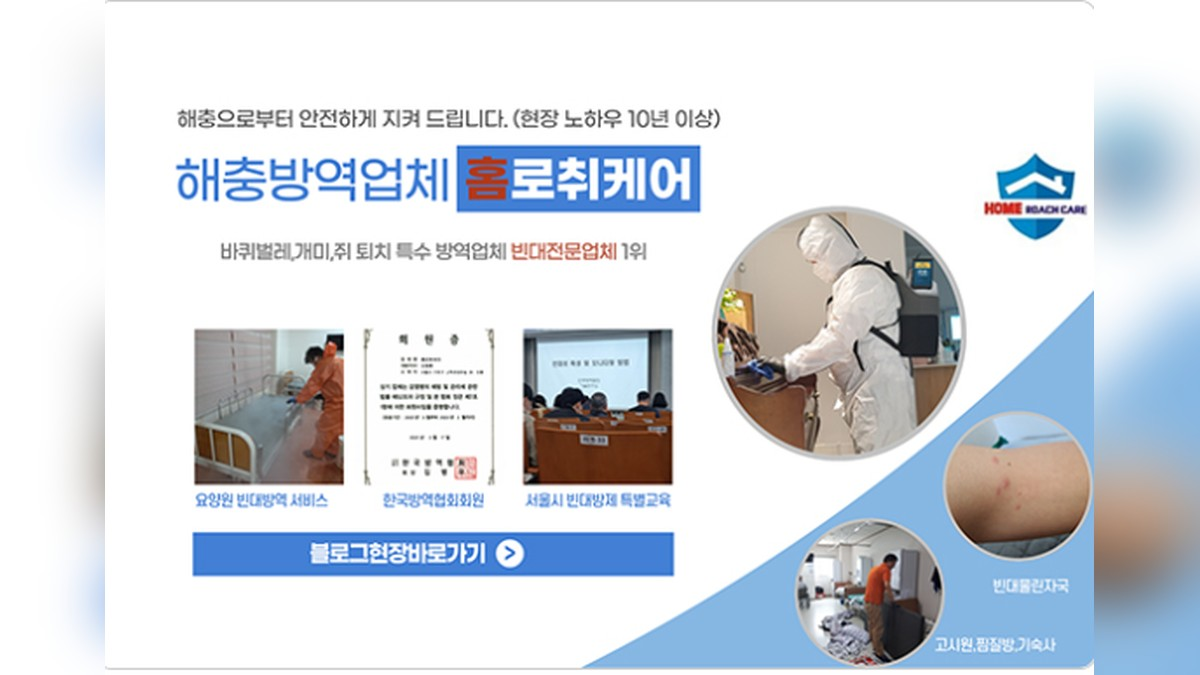
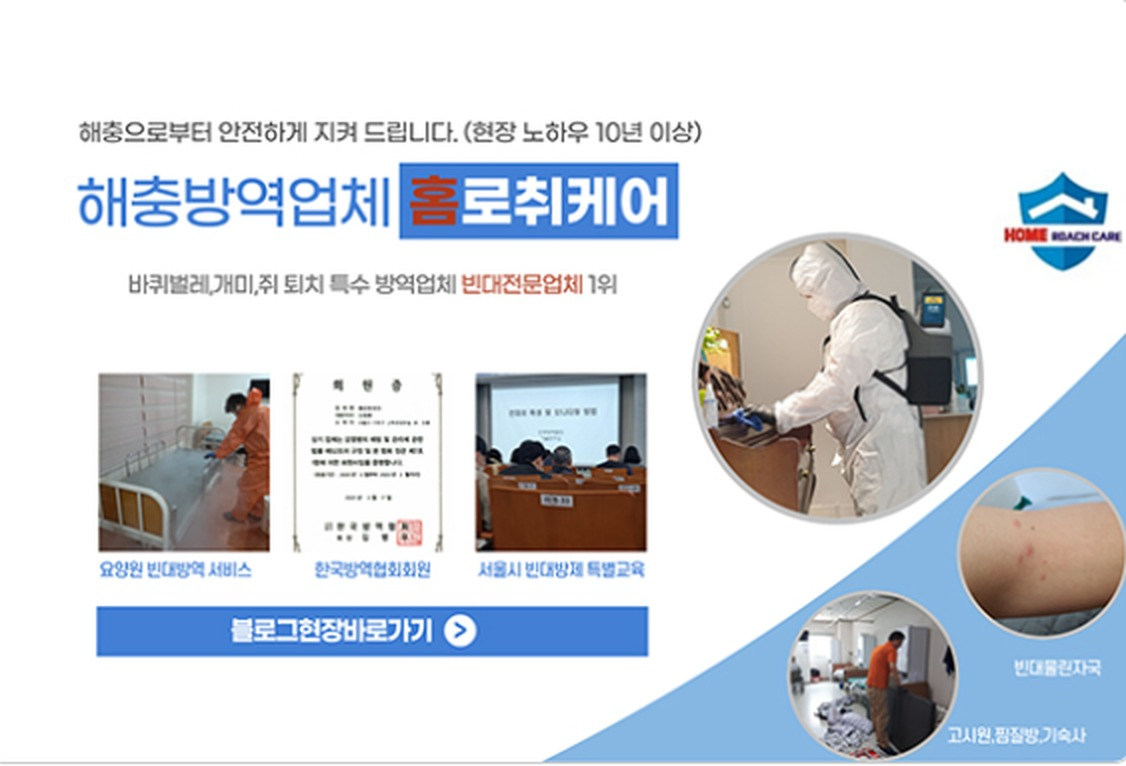
Redesign service cards: clean media frame, check list, compact blog button
Claude-Session: https://claude.ai/code/session_01UkgayosAEQ1Dmg1dq3UhVo

diff --git a/index.html b/index.html
@@ -157,12 +157,23 @@ header{position:sticky;top:0;background:var(--bg);z-index:10;border-bottom:1px s
 .sl-dots button[aria-current=true]{background:#fff;width:26px;border-radius:6px}
 .sl-ctl{position:absolute;right:12px;bottom:6px;z-index:3;background:rgba(0,0,0,.35);color:#fff;border-radius:4px;padding:2px 8px;font-size:.78rem}
 @media(prefers-reduced-motion:reduce){.slide{transition:none}}
-.card.svc{padding:0;overflow:hidden}.card.svc>:not(.svc-img):not(.svc-link){margin-inline:24px}.card.svc ul{margin-bottom:24px;padding-left:42px}.card.svc .tag{margin-top:16px;align-self:flex-start}.svc-img{display:block;width:100%;aspect-ratio:16/9;object-fit:cover}
-.svc-link{position:relative;display:block;cursor:pointer}
-.svc-link:hover .svc-img{filter:brightness(.92)}
-.svc-badge{display:flex;align-items:center;justify-content:center;gap:8px;background:#03c75a;color:#fff;font-size:.95rem;font-weight:700;padding:10px 14px}
-.svc-badge b{background:#fff;color:#03c75a;border-radius:3px;width:20px;height:20px;display:inline-grid;place-items:center;font-size:.78rem}
-.svc-link:hover .svc-badge{background:#02a64b}
+.card.svc{padding:0;overflow:hidden;display:flex;flex-direction:column;background:var(--bg);border:1px solid var(--line);border-radius:16px;transition:box-shadow .2s,transform .2s}
+.card.svc:hover{box-shadow:0 10px 28px rgba(18,64,143,.12);transform:translateY(-2px)}
+@media(prefers-reduced-motion:reduce){.card.svc{transition:none}.card.svc:hover{transform:none}}
+.svc-media{display:block;position:relative;flex:none;box-sizing:border-box;background:#eef3f9;aspect-ratio:16/10;width:100%;overflow:hidden}
+.svc-img{position:absolute;inset:16px;width:calc(100% - 32px);height:calc(100% - 32px);object-fit:contain;border-radius:8px}
+.svc-body{padding:20px 22px 22px;display:flex;flex-direction:column;gap:14px;flex:1}
+.svc-head{display:flex;align-items:center;justify-content:space-between;gap:12px}
+.svc-head h3{margin:0;font-size:1.25rem}
+.svc-list{list-style:none;padding:0;margin:0;display:grid;gap:8px;color:var(--muted);font-size:.95rem}
+.svc-list li{position:relative;padding-left:22px}
+.svc-list li::before{content:"";position:absolute;left:2px;top:.5em;width:10px;height:6px;border-left:2px solid var(--brand);border-bottom:2px solid var(--brand);transform:rotate(-45deg)}
+.svc-blog{margin-top:auto;align-self:flex-start;display:inline-flex;align-items:center;gap:8px;padding:8px 16px 8px 8px;border:1.5px solid #03c75a;border-radius:999px;color:#03a24a;font-weight:700;font-size:.9rem}
+.svc-blog b{background:#03c75a;color:#fff;border-radius:50%;width:24px;height:24px;display:grid;place-items:center;font-size:.8rem}
+.svc-blog:hover{background:#03c75a;color:#fff}
+.svc-blog:hover b{background:#fff;color:#03c75a}
+@media(prefers-color-scheme:dark){:root:not([data-theme=light]) .svc-blog{color:#4ee08b}:root:not([data-theme=light]) .svc-blog:hover{color:#fff}}
+:root[data-theme=dark] .svc-blog{color:#4ee08b}:root[data-theme=dark] .svc-blog:hover{color:#fff}
 .logo-img{display:block;height:52px;width:auto;background:#fff;border-radius:4px}
 @media(max-width:480px){.logo-img{height:44px}}
 .soon{padding:40px 16px;text-align:center;color:var(--muted);border:1px dashed var(--line);border-radius:12px}
@@ -263,7 +274,7 @@ footer{border-top:1px solid var(--line);padding:32px 0;color:var(--muted);font-s
     '<div class="tiles">'+tiles+'</div></div></div>'+
 
   '<section id="services"><div class="wrap"><h2>서비스</h2><p class="sub">필요한 분야만 골라 맡기세요.</p><div class="grid">'+
-    list(S.services,function(x){var bl=x.blog&&/^https?:\/\//.test(x.blog)?x.blog:"";var im=x.image?'<img class="svc-img" loading="lazy" src="'+e(x.image)+'" alt="'+e(x.name)+'">':'<div class="ico">'+e(x.icon)+'</div>';return '<div class="card svc">'+(bl?'<a class="svc-link" href="'+e(bl)+'" target="_blank" rel="noopener noreferrer" aria-label="'+e(x.name)+' 네이버 블로그 새 창으로 열기">'+im+'<span class="svc-badge"><b>N</b> 네이버 블로그 바로가기 (클릭하면 새 창으로 열립니다) ↗</span></a>':im)+'<span class="tag">'+e(x.tag)+'</span><h3>'+e(x.name)+'</h3><ul>'+list(x.items,function(i){return '<li>'+e(i)+'</li>'})+'</ul>'+'</div>'})+
+    list(S.services,function(x){var bl=x.blog&&/^https?:\/\//.test(x.blog)?x.blog:"";var im=x.image?'<img class="svc-img" loading="lazy" src="'+e(x.image)+'" alt="'+e(x.name)+'">':'<div class="ico">'+e(x.icon)+'</div>';return '<article class="card svc">'+(bl?'<a class="svc-media" href="'+e(bl)+'" target="_blank" rel="noopener noreferrer" aria-label="'+e(x.name)+' 네이버 블로그 새 창으로 열기">'+im+'</a>':'<div class="svc-media">'+im+'</div>')+'<div class="svc-body"><div class="svc-head"><h3>'+e(x.name)+'</h3><span class="tag">'+e(x.tag)+'</span></div><ul class="svc-list">'+list(x.items,function(i){return '<li>'+e(i)+'</li>'})+'</ul>'+(bl?'<a class="svc-blog" href="'+e(bl)+'" target="_blank" rel="noopener noreferrer"><b>N</b>네이버 블로그 바로가기<span aria-hidden="true">↗</span></a>':'')+'</div></article>';return '<div class="card svc">'+(bl?'<a class="svc-link" href="'+e(bl)+'" target="_blank" rel="noopener noreferrer" aria-label="'+e(x.name)+' 네이버 블로그 새 창으로 열기">'+im+'<span class="svc-badge"><b>N</b> 네이버 블로그 바로가기 (클릭하면 새 창으로 열립니다) ↗</span></a>':im)+'<span class="tag">'+e(x.tag)+'</span><h3>'+e(x.name)+'</h3><ul>'+list(x.items,function(i){return '<li>'+e(i)+'</li>'})+'</ul>'+'</div>'})+
   '</div></div></section>'+
 
   ((S.about)?'<section id="about"><div class="wrap about"><aside class="about-side"><h2>'+e(S.about.title)+'</h2><div class="tabs" role="tablist"><button type="button" role="tab" data-tab="g" aria-selected="true">'+e(S.about.greeting.title)+'</button><button type="button" role="tab" data-tab="o" aria-selected="false">'+e(S.about.org.title)+'</button></div></aside>'+
